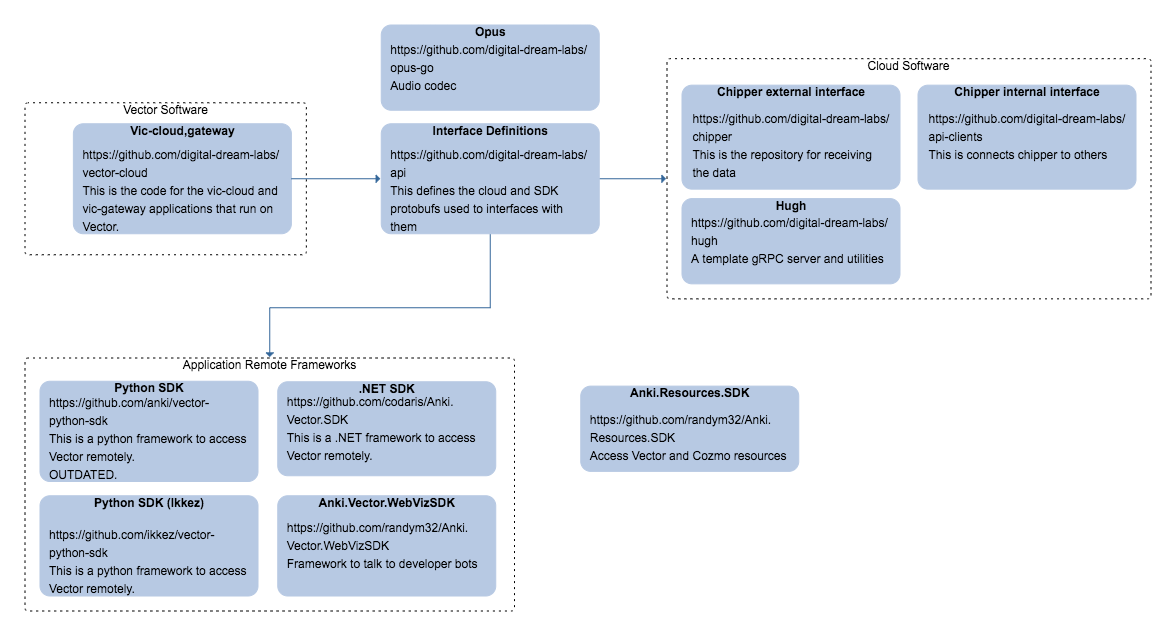
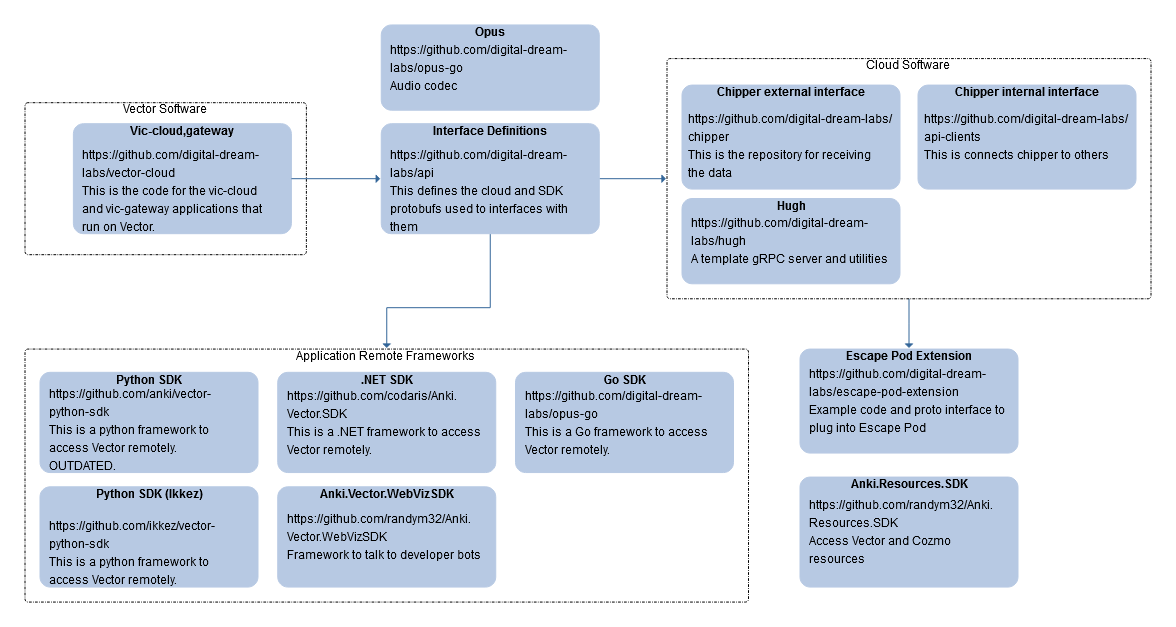
Updated for DDL's new frameworks
Added EscapePod extension library reference
Added Go SDK reference

diff --git a/documents/software-design/SDKs.md b/documents/software-design/SDKs.md
@@ -23,11 +23,17 @@ The main PC/Mobile SDK (HTTPS API) include:
   access, analyze local (that is, on your computer) copies of the Vectors'
   application resources/assets
 
+- [Go SDK](https://github.com/digital-dream-labs/vector-go-sdk)  
+  This is a Go-based API to access Vector remotely.
+
 - See the SDKs above for examples how to use each
 
 
-
 ## Other interface-related repositories
+
+- The [Escape Pod Extension](https://github.com/digital-dream-labs/escape-pod-extension)
+  framework allows extending the EscapePod to support other voice-command
+  features / connections to cloud servers.  The repository includes examples.
 
 - The [https://github.com/digital-dream-labs/api](https://github.com/digital-dream-labs/api)
   repository defines the cloud and SDK protobufs used to interfaces with them. 
@@ -56,7 +62,7 @@ The main PC/Mobile SDK (HTTPS API) include:
 
 ## Bluetooth LE tools
 
-Bluetooth LE implementations.  There isnt an SDK for the Bluetooth LE protocol,
+Bluetooth LE implementations.  There isn't an SDK for the Bluetooth LE protocol,
 but there are a few implementations that you might wish to look at/reuse:
 
 - [OS-X Objective-C](https://github.com/GooeyChickenman/victor/tree/master/tools/vector-BLE)
@@ -65,7 +71,7 @@ but there are a few implementations that you might wish to look at/reuse:
   [here](https://github.com/digital-dream-labs/vector-web-setup)
 
 
-Bluetooth LE implementations.  There isnt an SDK for the Bluetooth LE protocol,
+Bluetooth LE implementations.  There isn't an SDK for the Bluetooth LE protocol,
 but there are a few implementations that you might wish to look at/reuse:
 
 - [OS-X Objective-C](https://github.com/GooeyChickenman/victor/tree/master/tools/vector-BLE)
